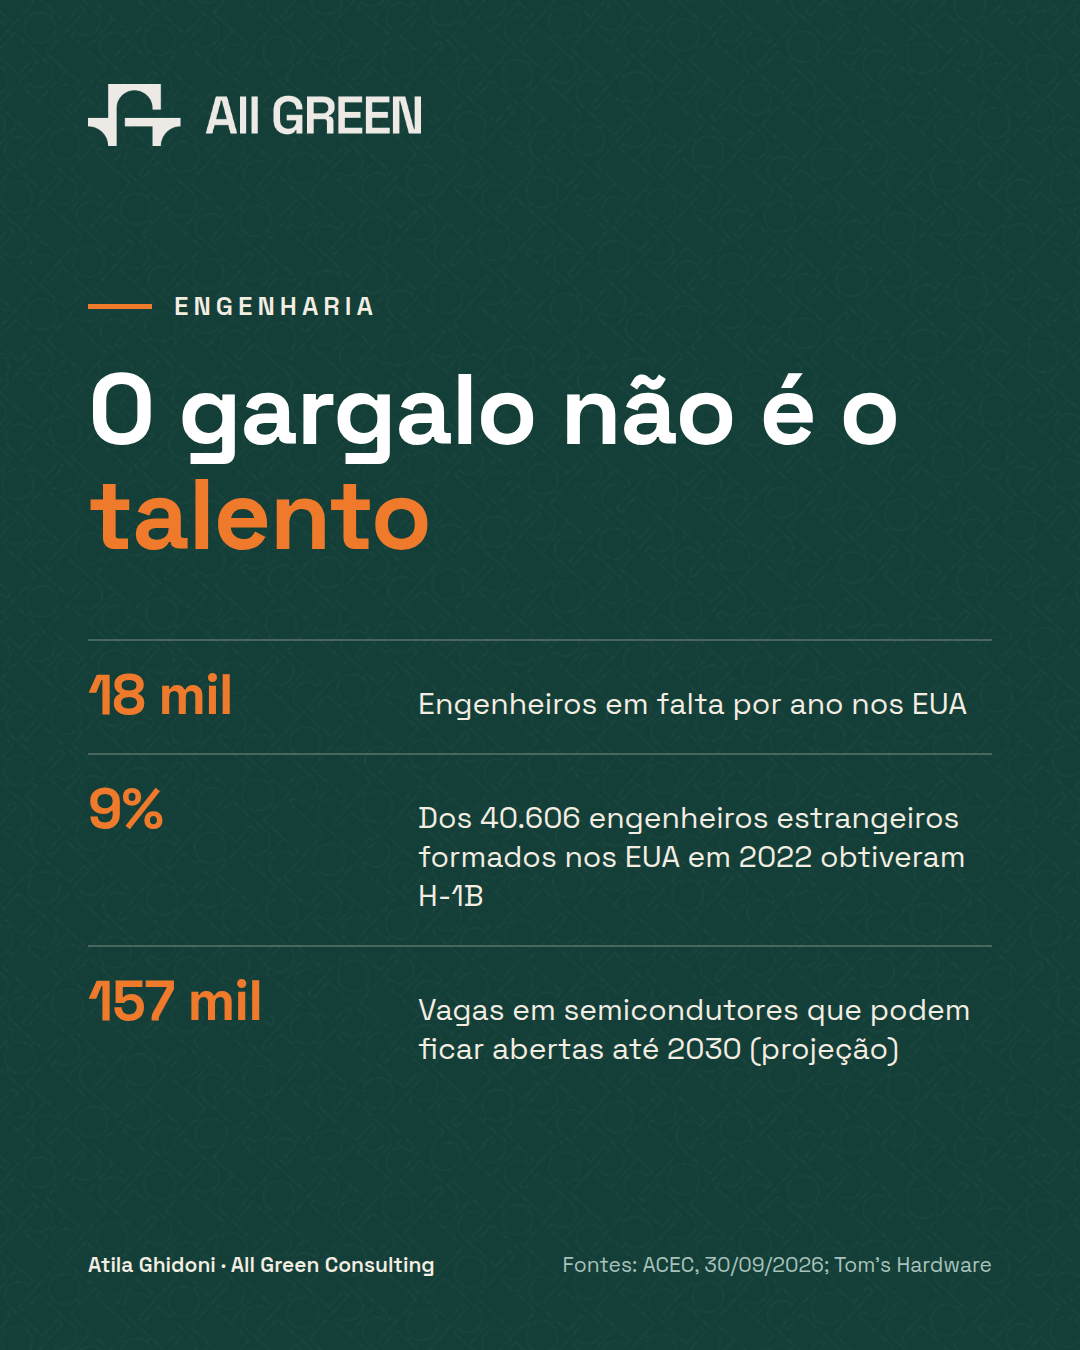
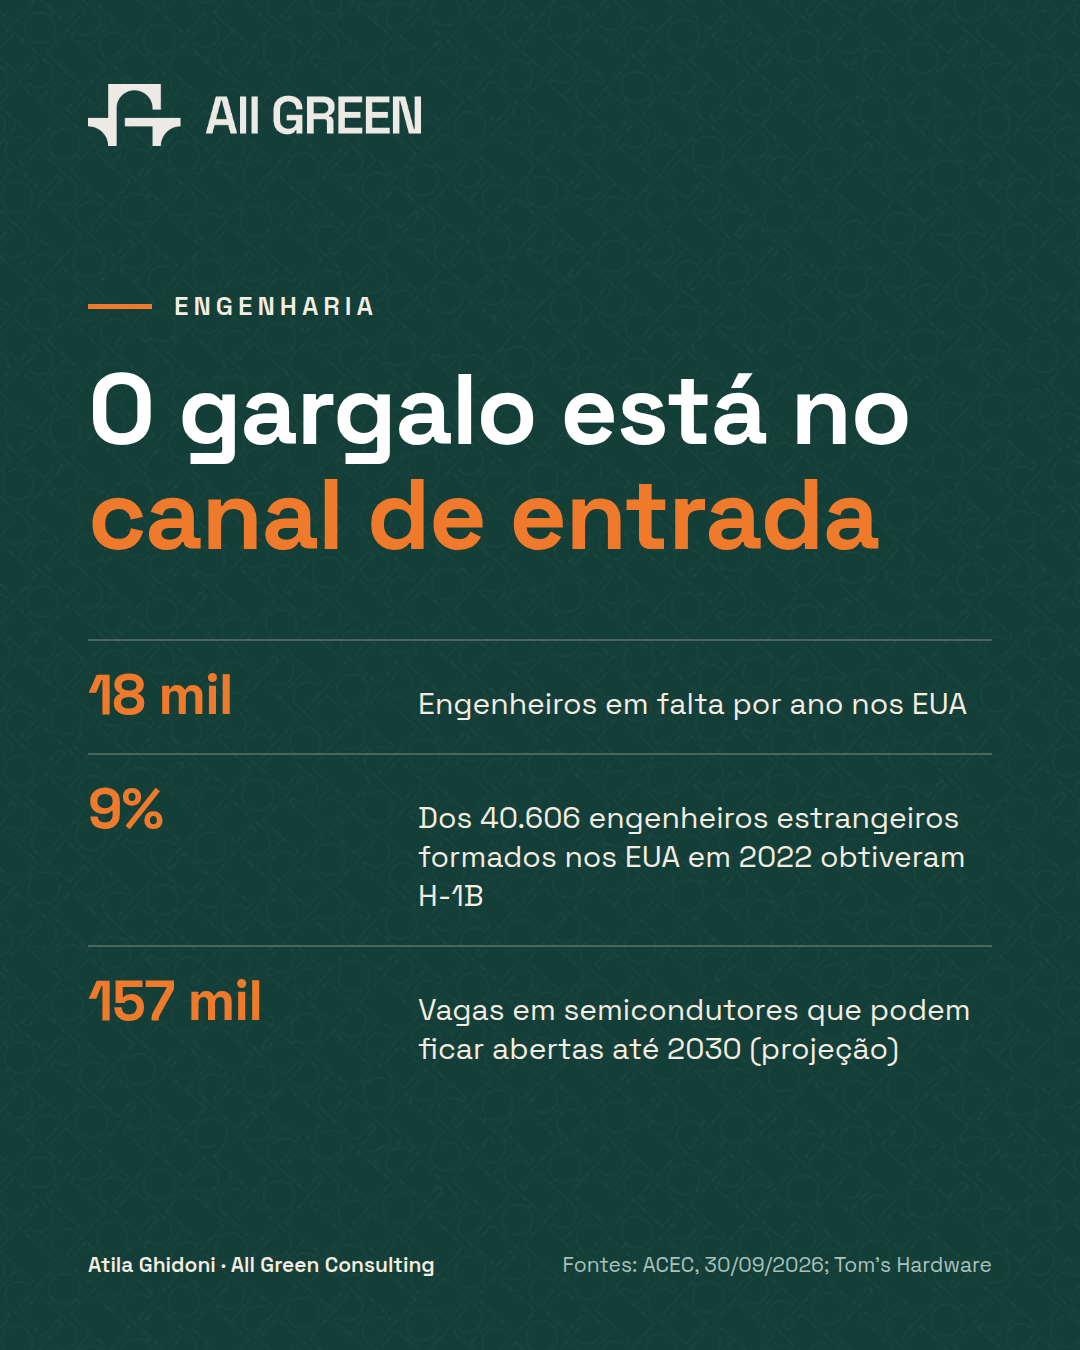
LinkedIn 05-11/10: more fluid text, no 'not X, but Y' contrasts
Claude-Session: https://claude.ai/code/session_01Ck1BZsVtVxt2ckBAWugUjM

Changed region(s): [[0.0611, 0.28, 0.8556, 0.4044]]

diff --git a/linkedin/26-10-05/Atila-LinkedIn-26-10-05.md b/linkedin/26-10-05/Atila-LinkedIn-26-10-05.md
@@ -10,19 +10,17 @@ Sugestão de calendário: terça, quarta e quinta, um por dia, cada um com a sua
 
 **Imagem:** post-1.png
 
-A notícia mais relevante da semana para quem avalia os EUA não veio da Casa Branca. Veio de um tribunal.
+A notícia mais relevante da semana para quem avalia os EUA saiu de um tribunal federal na Califórnia.
 
-Em 30 de setembro, um juiz federal da Califórnia impediu as agências americanas de aplicar a cobrança de US$ 100 mil por visto H-1B, inclusive a extensão assinada em setembro, que a prorrogava até 2027. É a segunda decisão judicial no mesmo sentido. O fundamento não foi político: o tribunal entendeu que a cobrança provavelmente foi imposta sem o processo de consulta pública exigido pela lei administrativa americana.
+Em 30 de setembro, um juiz impediu as agências americanas de aplicar a cobrança de US$ 100 mil por visto H-1B, incluindo a extensão assinada em setembro que a levaria até 2027. É a segunda decisão judicial nesse sentido, e o fundamento foi técnico: a cobrança provavelmente foi imposta sem a consulta pública que a lei administrativa americana exige.
 
-Há duas leituras possíveis. A primeira é a da volatilidade: o visto patrocinado por empregador virou objeto de disputa judicial, com custo incerto e prazo incerto. Para quem planeja uma carreira, isso é risco de contraparte somado a risco regulatório.
+Para quem planeja uma carreira nos EUA a partir de um visto patrocinado, o episódio expõe uma camada de risco que costuma ficar fora da conta. O custo da contratação passou a depender de um processo judicial, e o prazo também.
 
-A segunda leitura é menos óbvia, e mais importante. Mesmo sob pressão política intensa, o sistema americano exigiu procedimento. Uma regra que afeta milhares de empresas não pôde ser imposta sem rito. Em mercados emergentes, a incerteza costuma vir da própria norma, que muda sem aviso. Nos EUA, a regra pode ser dura, mas precisa seguir o processo.
+Há, porém, uma leitura menos evidente e mais útil. Mesmo sob forte pressão política, uma regra que afeta milhares de empresas precisou seguir um rito antes de valer. Quem vem de mercados emergentes conhece bem a incerteza que nasce da própria norma, alterada de uma hora para outra. No sistema americano, a regra pode ser dura, mas tem de passar por um processo.
 
-Previsibilidade institucional é um ativo que não aparece no balanço, mas está precificado em toda decisão de longo prazo: onde investir, onde construir uma empresa, onde educar os filhos.
+Essa previsibilidade institucional raramente aparece em uma planilha, embora esteja embutida em toda decisão de longo prazo: onde investir, onde estruturar uma empresa, onde educar os filhos. E ela pesa ainda mais quando a via de acesso escolhida depende do próprio histórico, e não da agenda de um terceiro.
 
-A questão, portanto, não é se os EUA ficaram mais difíceis. É qual via de acesso depende menos da vontade de terceiros e mais do seu próprio histórico.
-
-Em qual jurisdição as regras que regem o seu patrimônio precisam seguir um processo antes de mudar?
+Em qual jurisdição as regras que protegem o seu patrimônio precisam seguir um processo antes de mudar?
 
 ---
 
@@ -36,15 +34,15 @@ Em qual jurisdição as regras que regem o seu patrimônio precisam seguir um pr
 
 **Imagem:** post-2.png
 
-Toda residência estrangeira é comprada com algum tipo de capital. A pergunta é qual.
+Toda residência em outro país é, de alguma forma, adquirida com capital. Nesta semana, o capital financeiro ficou um pouco mais caro.
 
-Nesta semana ficou mais caro usar o financeiro. O governo americano publicou a regra final que reajusta as taxas do EB-5, o green card por investimento. A partir de 30 de novembro, a petição do investidor via centro regional passa de US$ 3.675 para US$ 7.850. O pedido para remover as condições do green card sobe de US$ 3.750 para US$ 5.000. O valor mínimo de investimento, definido em lei, não muda.
+O governo americano publicou a regra final que reajusta as taxas do EB-5, o green card por investimento. A partir de 30 de novembro, a petição do investidor via centro regional passa de US$ 3.675 para US$ 7.850, e o pedido para remover as condições do green card sobe de US$ 3.750 para US$ 5.000. O valor mínimo de investimento, definido em lei, continua o mesmo.
 
-Para um investidor, o reajuste das taxas é irrelevante diante do capital alocado. O ponto não é o valor. É o sinal: o custo de entrada se move por ato administrativo, e quem adia uma decisão de jurisdição paga a diferença sem perceber.
+Diante do capital alocado em um EB-5, o reajuste das taxas é pequeno. O que ele revela merece mais atenção: o custo de entrada pode mudar por ato administrativo, e quem adia uma decisão de jurisdição acaba absorvendo essas mudanças sem perceber.
 
-Existe uma segunda moeda aceita pelo sistema americano, frequentemente subestimada por quem tem patrimônio: o capital intelectual. No EB-2 NIW, não há investimento exigido. O que se demonstra é que o trabalho do requerente tem mérito substancial e importância nacional para os EUA. Para empresários com trajetória técnica, médicos, engenheiros e pesquisadores, o histórico profissional pode ser um ativo de acesso tão concreto quanto o capital financeiro.
+O sistema americano também aceita uma segunda forma de capital, muitas vezes subestimada por quem tem patrimônio. No EB-2 NIW, nenhum investimento é exigido. O requerente demonstra que o seu trabalho tem mérito substancial e importância nacional para os EUA. Para empresários com trajetória técnica, médicos, engenheiros e pesquisadores, o histórico profissional pode abrir a mesma porta que o capital financeiro.
 
-As duas vias não são excludentes, e a escolha depende do perfil, do patrimônio e dos objetivos da família. Mas tratar a residência apenas como uma questão de quanto investir é ignorar metade do balanço.
+As duas vias podem conviver no planejamento de uma família, e a escolha depende do perfil, do patrimônio e dos objetivos de cada um. Avaliar a residência apenas pelo quanto se investe deixa metade do balanço fora da análise.
 
 Qual dos seus ativos tem hoje mais liquidez em outra jurisdição: o que está na sua conta ou o que está no seu currículo?
 
@@ -56,21 +54,21 @@ Qual dos seus ativos tem hoje mais liquidez em outra jurisdição: o que está n
 
 ---
 
-## Post 3: O gargalo não é o talento
+## Post 3: Onde está o gargalo
 
 **Imagem:** post-3.png
 
-Os EUA não têm um problema de talento. Têm um problema de canal.
+Os EUA formam engenheiros de alto nível todos os anos e, ainda assim, convivem com um déficit crescente. O gargalo está no canal de entrada.
 
-Um estudo do ACEC Research Institute divulgado em 30 de setembro mostra que o país tem um déficit anual de 18 mil engenheiros. As formaturas em engenharia caíram mais de 10 mil desde o pico de 2019. E o dado mais revelador: dos 40.606 estrangeiros que se formaram em engenharia nos EUA em 2022, cerca de 9% obtiveram o visto H-1B.
+Um estudo do ACEC Research Institute divulgado em 30 de setembro estima que faltam 18 mil engenheiros por ano no país, e as formaturas em engenharia caíram mais de 10 mil desde o pico de 2019. O dado mais revelador está entre os estrangeiros: dos 40.606 que se formaram em engenharia nos EUA em 2022, cerca de 9% obtiveram o visto H-1B.
 
-Ou seja, o país forma, qualifica e treina profissionais dentro do próprio sistema, e a principal via de trabalho absorve uma fração pequena deles. Não por falta de mérito, mas porque o canal depende de um empregador disposto a patrocinar, de um sorteio anual e, em 2026, de uma regulação em disputa judicial.
+O país qualifica esses profissionais dentro do próprio sistema, e a principal via de trabalho absorve apenas uma fração deles. Essa via depende de um empregador disposto a patrocinar, de um sorteio anual e, em 2026, de uma regulação em disputa judicial.
 
-Para o profissional brasileiro de alto nível, a lição é estrutural. Quando o acesso depende de um gargalo controlado por terceiros, a qualificação não basta; é preciso escolher uma via em que a qualificação seja o próprio critério.
+Para o profissional brasileiro de alto nível, a lição é estrutural. Quando o acesso passa por um gargalo controlado por terceiros, a qualificação sozinha raramente resolve, e faz sentido buscar uma via em que ela seja o próprio critério de avaliação.
 
-É o desenho do EB-2 NIW. O requerente não precisa de patrocinador e não passa por sorteio. Precisa demonstrar que o seu trabalho tem importância nacional para os EUA e que está bem posicionado para levá-lo adiante. Em áreas como infraestrutura, energia e semicondutores, onde o setor projeta até 157 mil vagas sem preenchimento até 2030, esse argumento tende a ser construído com dados públicos.
+O EB-2 NIW foi desenhado assim. O requerente dispensa patrocinador e sorteio, e precisa demonstrar que o seu trabalho tem importância nacional para os EUA e que está bem posicionado para levá-lo adiante. Em áreas como infraestrutura, energia e semicondutores, em que o setor projeta até 157 mil vagas sem preenchimento até 2030, esse argumento pode ser construído com dados públicos.
 
-Se o seu acesso a outro mercado depende de um gargalo que você não controla, o seu plano é uma estratégia ou uma aposta?
+Se o seu acesso a outro mercado depende de um gargalo que você não controla, até que ponto o seu plano está nas suas mãos?
 
 ---
 

diff --git a/linkedin/Prompt-LinkedIn-Semanal.md b/linkedin/Prompt-LinkedIn-Semanal.md
@@ -22,6 +22,7 @@ DIRETRIZES DE ESCRITA
 5. Sem identificação: não mencione o cargo de CEO no texto; a autoridade transparece na profundidade do argumento.
 6. Cada post explora as engrenagens invisíveis por trás da notícia, comparando a mentalidade de mercados emergentes com a eficiência do sistema americano.
 7. Parágrafos curtos e completos (2 a 4 frases), sem uma frase por linha, sem setas, sem tom de palco ou de "surto". Nada de imperativos agressivos.
+8. Texto fluido, com frases que se encadeiam. Não use a estrutura de contraste "não é X, é Y" (nem variações como "não veio de X. Veio de Y", "o ponto não é X, é Y", "não por X, mas por Y"), nem frases de efeito soltas.
 
 FORMATO (State of LinkedIn Brasil 2026)
 - Post de executivo, texto longo + uma imagem; não use artigo com link. Links das fontes no primeiro comentário.
